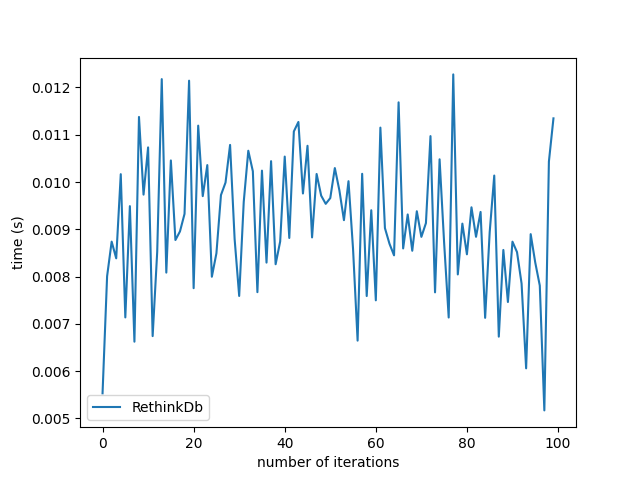
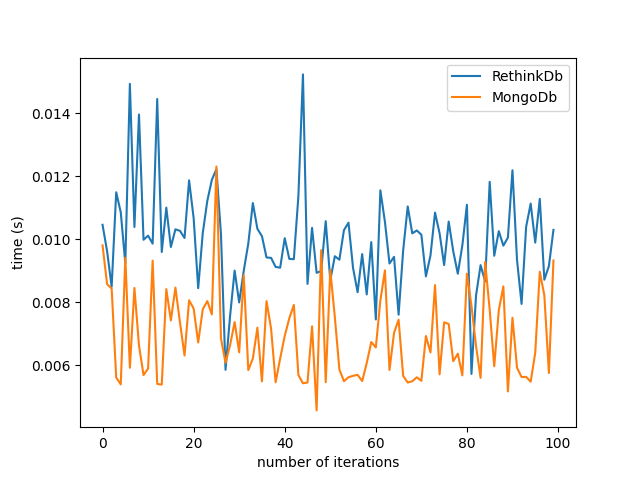
add searching id test for mongo

diff --git a/efficiency-tests/mongodb_test.py b/efficiency-tests/mongodb_test.py
@@ -93,5 +93,27 @@ class MongoTest:
 
         print('test finished')
 
+    def test_search_row_by_id_10_times_efficiency(self, inserts_num: int):
+        idx = 0
+        mod = inserts_num / min(100, inserts_num)
+
+        self.db.source.drop()
+
+        random.seed(87747)
+        print('test started')
+
+        while idx < inserts_num:
+            self.db.source.insert_one({'_id': idx})
+            if idx % mod == 0:
+                start = time.time()
+                for _ in range(10):
+                    print(self.db.source.find({'_id': random.randint(0, idx)}).next(), end=', ')
+                end = time.time()
+                print()
+                self.db.search_row_by_id_10_times.insert_one({'id': idx, 'time': end - start})
+            idx += 1
+
+        print('test finished')
+
     def get_results(self, schema: str) -> list:
         return list(self.db[schema].find())

diff --git a/efficiency-tests/main.py b/efficiency-tests/main.py
@@ -34,10 +34,14 @@ def get_average_time(data_series: list):
 
 if __name__ == '__main__':
 
-    iterations_num = 400
-    tests = [('copy_table', True)]
+    iterations_num = 100
+    tests = [('search_row_by_id_10_times', True)]
     # [('inserts', True), ('read_write', True), ('sorting', True), ('join_table', True),
-    # ('search_row_by_id_10_times', True), ('search_row_by_value_10_times', True)]
+    # ('search_row_by_id_10_times', True), ('search_row_by_value_10_times', True), ('copy_table', True)]
+
+    # search_row_by_id_10_times for iterations_num = 100
+    # MongoDb average operation time: 9.33074951171875e-05
+    # RethinkDb average operation time: 7.951736450195312e-05
 
     for test_name, recreate_collection in tests:
         test_func_name = f'test_{test_name}_efficiency'
